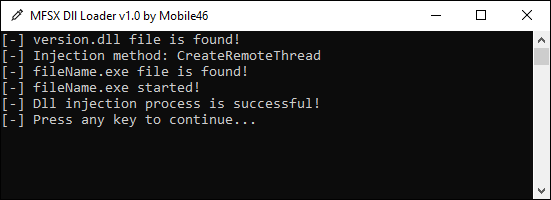
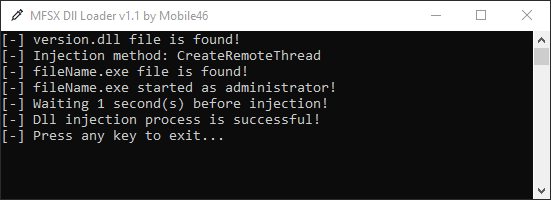
Add wait x sec before injection option

Changed region(s): [[0.0, 0.0, 1.0, 1.0], [0.0617, 0.39, 0.6171, 0.63], [0.0, 0.63, 0.4011, 0.72]]

diff --git a/MFSX.DllLoader/MFSX.DllLoader/Program.cs b/MFSX.DllLoader/MFSX.DllLoader/Program.cs
@@ -15,10 +15,11 @@ namespace MFSX.DllLoader
 
         private static readonly char RandomChar = GetRandomCharacter();
 
+        private static bool hideWindow = false;
+
         private static void Main(string[] args)
         {
-            Console.Title = "MFSX Dll Loader v1.0 by Mobile46";
-            bool hideWindow = false;
+            Console.Title = "MFSX Dll Loader v1.1 by Mobile46";
 
             try
             {
@@ -104,6 +105,19 @@ namespace MFSX.DllLoader
                         goto exit;
                     }
 
+                    int waitBeforeInjection = 0;
+
+                    if (!int.TryParse(myIni.Read("WaitBeforeInjection"), out waitBeforeInjection))
+                    {
+                        Log("Invalid WaitBeforeInjection value! It must be a integer (1000 ms == 1 sec)");
+                    }
+
+                    if (waitBeforeInjection != 0)
+                    {
+                        Log($"Waiting {waitBeforeInjection * 0.001} second(s) before injection!");
+                        System.Threading.Thread.Sleep(waitBeforeInjection);
+                    }
+
                     Log(MFSX.Inject(processName, dllName, injectionMethod) ? "Dll injection process is successful!" : "Dll injection process is failed!");
                 }
                 else
@@ -157,7 +171,10 @@ namespace MFSX.DllLoader
 
         private static void Log(string text)
         {
-            Console.WriteLine($"[{RandomChar}] {text}");
+            if (!hideWindow)
+            {
+                Console.WriteLine($"[{RandomChar}] {text}");
+            }
         }
 
         private static void LogFileFound(string fileName)

diff --git a/MFSX.DllLoader/MFSX.DllLoader/Properties/AssemblyInfo.cs b/MFSX.DllLoader/MFSX.DllLoader/Properties/AssemblyInfo.cs
@@ -32,6 +32,6 @@ using System.Runtime.InteropServices;
 // You can specify all the values or you can default the Build and Revision Numbers
 // by using the '*' as shown below:
 // [assembly: AssemblyVersion("1.0.*")]
-[assembly: AssemblyVersion("1.0.0.0")]
-[assembly: AssemblyFileVersion("1.0.0.0")]
+[assembly: AssemblyVersion("1.1.0.0")]
+[assembly: AssemblyFileVersion("1.1.0.0")]
 [assembly: NeutralResourcesLanguage("en-US")]

diff --git a/MFSX.DllLoader/MFSX.DllLoader/IniFile.cs b/MFSX.DllLoader/MFSX.DllLoader/IniFile.cs
@@ -42,6 +42,11 @@ namespace MFSX.DllLoader
             {
                 Write("HideWindow", "0");
             }
+
+            if (!KeyExists("WaitBeforeInjection"))
+            {
+                Write("WaitBeforeInjection", "0");
+            }
         }
 
         public string Read(string key)

diff --git a/README.md b/README.md
@@ -15,6 +15,7 @@ DllName=version.dll
 InjectionMethod=1
 RunProcessAsAdmin=0
 HideWindow=0
+WaitBeforeInjection=0
 ```
 
 ProcessName (Target process name)
@@ -32,9 +33,12 @@ RunProcessAsAdmin (Run target process as admin)
  - True (1)
  - False (0)
 
-HideWindow (Hide console window when you run MFSX.DllLoader.exe)
+HideWindow (Hide console window when you run DllLoader.exe)
 - True (1)
 - False (0)
+
+WaitBeforeInjection (Wait X sec before injection)
+- Default value is 0 ms
 
 # License
 MFSX.DllLoader is licensed under the MIT License - see the [LICENSE](LICENSE) file for details.
